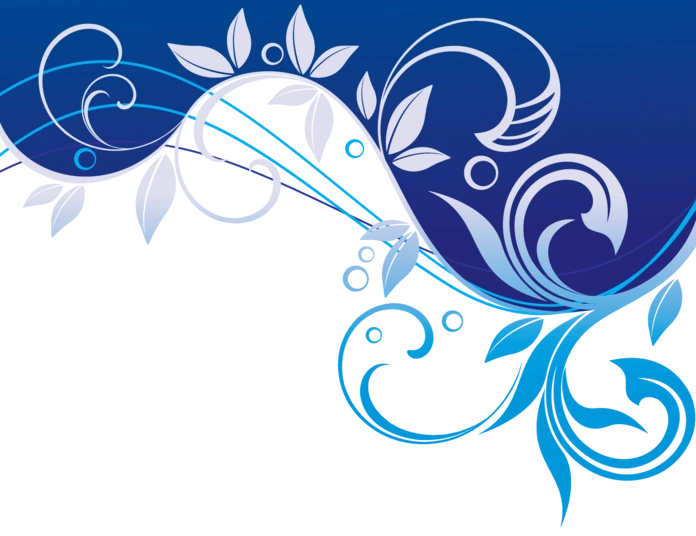
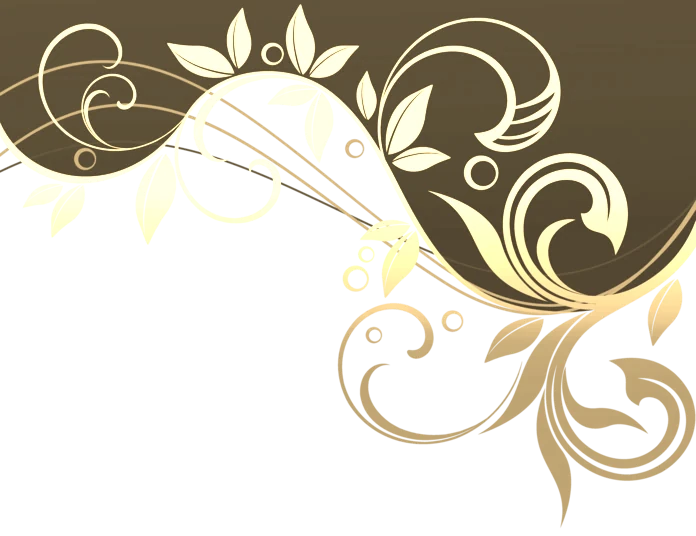
Add assets and proper background dimming

diff --git a/src/features/title-menu/styles/extra.scss b/src/features/title-menu/styles/extra.scss
@@ -6,14 +6,13 @@
 	grid-template-columns: 210px 1fr;
 	grid-template-areas: "extra-menu extra-content";
 	padding: 0;
-	background: rgb(42 21 0 / 60%);
+	isolation: isolate;
 
 	.rightOrnament, .leftOrnament {
 		position: absolute;
 		pointer-events: none;
 		opacity: 0.62;
 		width: clamp(150px, 20vw, 250px);
-		filter: sepia(1) saturate(1.35) brightness(1.18);
 		mix-blend-mode: screen;
 		-webkit-mask-image: linear-gradient(to right, transparent, black 8em);
 		mask-image: linear-gradient(to right, transparent, black 8em);
@@ -87,6 +86,7 @@
 		grid-area: extra-content;
 		min-width: 0;
 		min-height: 0;
+		display: grid;
 	}
 
 	@media screen and (orientation: portrait) and (max-width: 979px) {

diff --git a/src/app/styles/App.scss b/src/app/styles/App.scss
@@ -46,10 +46,37 @@ dialog.modal {
 	height: 100%;
 	position: relative;
 	display: flex;
-	background: rgb(42 21 0 / 60%);
+}
 
-	&#title-menu {
+.page-backdrop {
+	position: absolute;
+	inset: 0;
+	z-index: -1;
+	pointer-events: none;
+
+	&::before, &::after {
+		content: "";
+		position: absolute;
+		inset: 0;
+		transition: opacity .3s ease-out;
+	}
+
+	&::before {
+		background: rgb(42 21 0 / 60%);
+	}
+
+	&::after {
 		background: linear-gradient(180deg, transparent, rgba(42 21 0 / 20%));
+		opacity: 0;
+	}
+
+	&[data-variant="title"] {
+		&::before {
+			opacity: 0;
+		}
+		&::after {
+			opacity: 1;
+		}
 	}
 }
 /* Overlay */

diff --git a/src/app/layouts/ExtraShell.tsx b/src/app/layouts/ExtraShell.tsx
@@ -24,7 +24,6 @@ const ExtraShell = ({ children }: PropsWithChildren) => {
 			exit={{opacity: 0}}>
 			<img src={Ornament} alt="" className="leftOrnament" />
 			<img src={Ornament} alt="" className="rightOrnament" />
-			<ExtraMenu />
 
 			<m.main
 				className="extra-content"
@@ -37,6 +36,8 @@ const ExtraShell = ({ children }: PropsWithChildren) => {
 			>
 				{children}
 			</m.main>
+
+			<ExtraMenu />
 		</m.div>
 	)
 }

diff --git a/src/app/components/AnimatedRoutes.tsx b/src/app/components/AnimatedRoutes.tsx
@@ -51,6 +51,7 @@ const AnimatedRoutes = () => {
 	return (
 		<LazyMotion features={domAnimation} strict>
 			<HarvestWind active={showBackdrop && !showDisclaimer} />
+			<div className="page-backdrop" data-variant={pathname === "/" ? "title" : "default"} aria-hidden />
 			<AnimatePresence mode="wait">
 				<Switch location={pathname} key={keyPresence}>
 					<Route path="/">

diff --git a/src/features/game/components/shared/fixedfooter.module.scss b/src/features/game/components/shared/fixedfooter.module.scss
@@ -7,7 +7,6 @@
 	pointer-events: none;
 	opacity: 0.62;
 	width: clamp(150px, 20vw, 250px);
-	filter: sepia(1) saturate(1.35) brightness(1.18);
 	mix-blend-mode: screen;
 	-webkit-mask-image: linear-gradient(to right, transparent, black 8em);
 	mask-image: linear-gradient(to right, transparent, black 8em);
